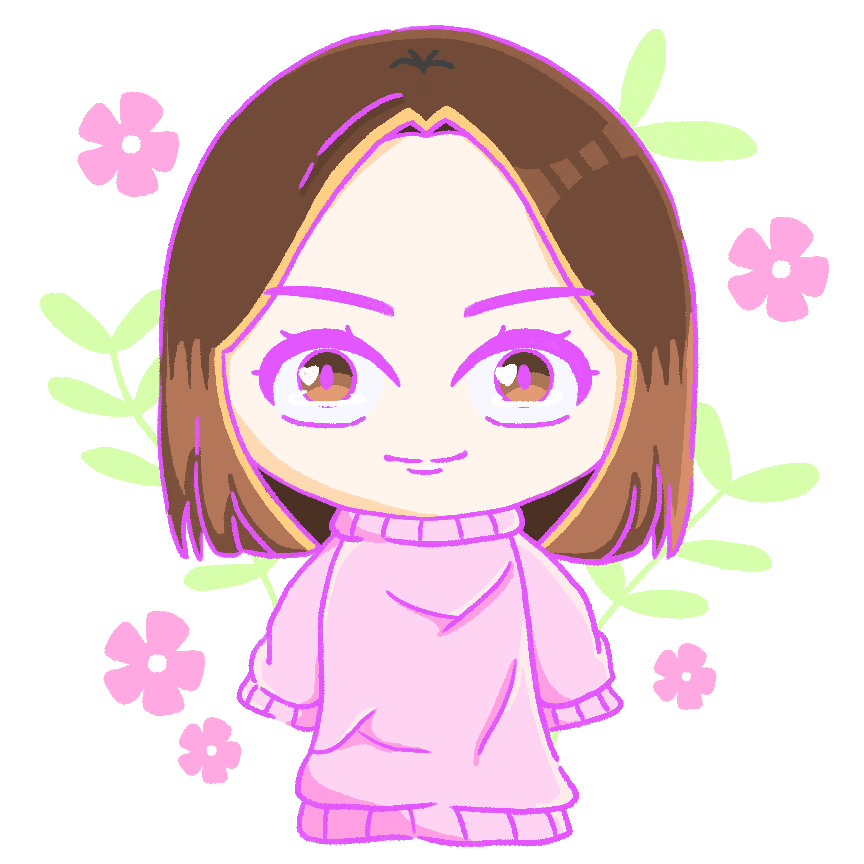
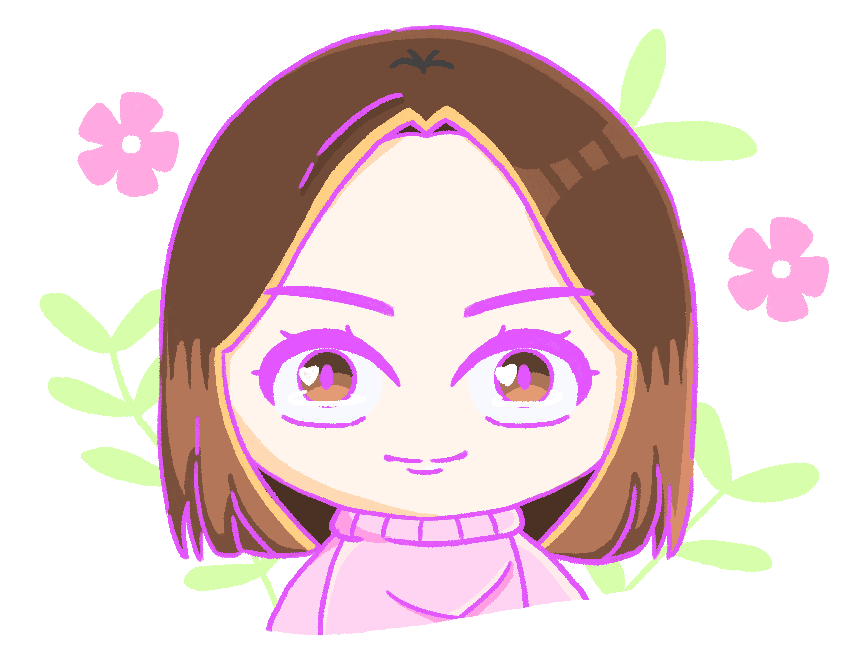
updated about

diff --git a/about.html b/about.html
@@ -10,7 +10,7 @@
 
     <meta http-equiv="X-UA-Compatible" content="ie=edge">
 
-    <link rel="icon" type="image/png" href="https://meganeligio.design/img/ghoopy.ico">
+    <link rel="icon" type="image/png" href="favicon/icon/favicon.ico">
 
     <title>megan eligio</title>
 
@@ -95,7 +95,7 @@
 
                 <div class="one-half column">
 
-                    <img src="img/chibi-portraitv2.png" alt="chibi portrait of myself" width="400" height="400" />
+                    <img src="img/chibi-portrait.png" alt="chibi portrait of myself" width="464" height="259" />
 
                 </div>
 
@@ -115,9 +115,11 @@
 
         <section class="about-info">
 
+            <img src="img/petals.png" class="petals" width="1098" height="1040" alt="illustration of tree petals">
+
             <h3 class="display-italic">more about me</h3>
 
-            <p>in my free time, i like to draw using Procreate, binge anime, and play cozy games on my Nintendo Switch. i also love Italian food, ramen, udon, and yakiniku. ヾ(˶ᵔ ᗜ ᵔ˶)</p>
+            <p>in my free time, i like to draw using Procreate, binge anime, play cozy games on my Nintendo Switch, and collect cute figurines like Nendoroids. i also love Italian food, ramen, udon, and yakiniku. ヾ(˶ᵔ ᗜ ᵔ˶)</p>
 
             <p class="goals-heading">life goals</p>
 
@@ -142,6 +144,8 @@
                 </div>
 
             </div>
+
+
 
         </section>
 

diff --git a/css/style.css b/css/style.css
@@ -333,6 +333,10 @@ header {
     margin-top: 5em;
 }
 
+.petals {
+    display: none;
+}
+
 .spotify-info {
     margin-top: 100px;
 }
@@ -347,6 +351,17 @@ header {
         justify-content: center;
         margin-bottom: 2em;
         margin-top: 0;
+    }
+
+    .petals {
+        display: block;
+        position: absolute;
+        top: 80%;
+        left: 10%;
+        width: 95%;
+        height: auto;
+        z-index: -1;
+        opacity: 0.4;
     }
 }
 
